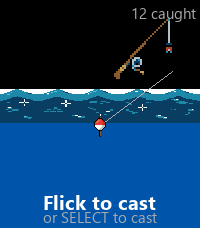
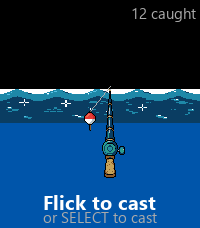
Switch cast scene to first-person rod view.
Replace the side-view pole with a tip-forward rod and draw the line from tip to bobber so it no longer crosses behind the reel.

diff --git a/src/c/ui.c b/src/c/ui.c
@@ -75,8 +75,19 @@ static const char *rarity_label(FishRarity r) {
   return "Common";
 }
 
+static void draw_fp_rod_fallback(GContext *ctx, GRect bounds, GPoint tip) {
+  int16_t butt_x = bounds.size.w / 2 + 8;
+  int16_t butt_y = bounds.size.h + 2;
+  graphics_context_set_stroke_color(ctx, C_YELLOW);
+  graphics_context_set_stroke_width(ctx, 3);
+  graphics_draw_line(ctx, GPoint(butt_x, butt_y), tip);
+  graphics_context_set_stroke_width(ctx, 1);
+  graphics_context_set_fill_color(ctx, C_ACCENT);
+  graphics_fill_circle(ctx, GPoint(butt_x - 5, butt_y - 16), 5);
+}
+
 static void draw_scene(GContext *ctx, GRect bounds, const Game *g) {
-  // Horizon sits higher so water fills most of the display
+  // First-person: looking past your rod tip out onto the water
   int16_t water_y = bounds.size.h * 2 / 5;
 
   graphics_context_set_fill_color(ctx, C_SKY);
@@ -85,7 +96,6 @@ static void draw_scene(GContext *ctx, GRect bounds, const Game *g) {
   if (s_bmp_water) {
     GRect wb = gbitmap_get_bounds(s_bmp_water);
     int16_t wy = water_y - 2;
-    // Tile water 1:1 across width (no upscale — avoids 2x2 sprite repeats)
     for (int16_t x = 0; x < bounds.size.w; x += wb.size.w) {
       draw_bitmap_native(ctx, s_bmp_water, GPoint(x, wy));
     }
@@ -100,32 +110,50 @@ static void draw_scene(GContext *ctx, GRect bounds, const Game *g) {
     graphics_draw_line(ctx, GPoint(0, water_y), GPoint(bounds.size.w, water_y));
   }
 
-  if (s_bmp_rod) {
-    GRect rb = gbitmap_get_bounds(s_bmp_rod);
-    draw_bitmap_native(ctx, s_bmp_rod,
-                       GPoint(bounds.size.w - rb.size.w - 4, water_y - rb.size.h + 8));
+  if (!(g->state == GameState_Waiting || g->state == GameState_Bite ||
+        g->state == GameState_Ready)) {
+    return;
   }
 
-  int16_t bobber_x = bounds.size.w / 2;
-  int16_t bobber_y = water_y + bounds.size.h / 10;
+  // Bobber ahead on the water
+  int16_t bobber_x = bounds.size.w / 2 - 10;
+  int16_t bobber_y = water_y + 12;
   if (g->state == GameState_Waiting) {
     bobber_y += (int16_t)((g->state_ms / 200) % 2) * 3;
   } else if (g->state == GameState_Bite) {
-    bobber_y += 10 + (int16_t)((g->state_ms / 80) % 3) * 2;
+    bobber_y += 8 + (int16_t)((g->state_ms / 80) % 3) * 2;
   }
 
-  if (g->state == GameState_Waiting || g->state == GameState_Bite ||
-      g->state == GameState_Ready) {
-    graphics_context_set_stroke_color(ctx, C_DIM);
-    graphics_context_set_stroke_width(ctx, 1);
-    graphics_draw_line(ctx, GPoint(bounds.size.w - 28, water_y - 20),
-                       GPoint(bobber_x, bobber_y));
-    if (s_bmp_bobber) {
-      draw_bitmap_centered_native(ctx, s_bmp_bobber, GPoint(bobber_x, bobber_y + 8));
-    } else {
-      graphics_context_set_fill_color(ctx, C_RED);
-      graphics_fill_circle(ctx, GPoint(bobber_x, bobber_y + 8), 6);
-    }
+  // Place rod from bottom of screen; tip = top-center of sprite
+  GPoint tip;
+  int16_t rod_x = 0;
+  int16_t rod_y = 0;
+  if (s_bmp_rod) {
+    GRect rb = gbitmap_get_bounds(s_bmp_rod);
+    rod_x = (bounds.size.w - rb.size.w) / 2 + 10;
+    // Tip near the horizon; handle hangs toward the bottom of the display
+    rod_y = water_y - 8;
+    tip = GPoint(rod_x + rb.size.w / 2, rod_y + 3);
+  } else {
+    tip = GPoint(bounds.size.w / 2 + 14, water_y - 4);
+  }
+
+  // Line from tip to bobber, then bobber, then rod on top so tip covers the join
+  graphics_context_set_stroke_color(ctx, C_DIM);
+  graphics_context_set_stroke_width(ctx, 1);
+  graphics_draw_line(ctx, tip, GPoint(bobber_x, bobber_y));
+
+  if (s_bmp_bobber) {
+    draw_bitmap_centered_native(ctx, s_bmp_bobber, GPoint(bobber_x, bobber_y + 8));
+  } else {
+    graphics_context_set_fill_color(ctx, C_RED);
+    graphics_fill_circle(ctx, GPoint(bobber_x, bobber_y + 8), 6);
+  }
+
+  if (s_bmp_rod) {
+    draw_bitmap_native(ctx, s_bmp_rod, GPoint(rod_x, rod_y));
+  } else {
+    draw_fp_rod_fallback(ctx, bounds, tip);
   }
 }
 

diff --git a/tools/generate_store_screenshots.py b/tools/generate_store_screenshots.py
@@ -151,18 +151,22 @@ def render_ready(w: int, h: int, color: bool) -> Image.Image:
     else:
         draw.rectangle((0, water_y, w, h), fill=water)
 
-    rod = load_sprite(RES / "rod.png", color)
-    if rod is not None:
-        rw, rh = rod.width * 2, rod.height * 2
-        paste_scaled(img, rod, (w - rw - 4, water_y - rh + 8, rw, rh))
-
     bobber = load_sprite(RES / "bobber.png", color)
-    bx, by = w // 2, water_y + h // 10 + 12
-    draw.line((w - 28, water_y - 20, bx, by), fill=dim, width=1)
+    bx, by = w // 2 - 10, water_y + 20
+    rod = load_sprite(RES / "rod.png", color)
+    tip = (w // 2 + 14, water_y - 4)
+    rod_xy = None
+    if rod is not None:
+        rod_xy = ((w - rod.width) // 2 + 10, water_y - 8)
+        tip = (rod_xy[0] + rod.width // 2, rod_xy[1] + 3)
+
+    draw.line((tip[0], tip[1], bx, by), fill=dim, width=1)
     if bobber is not None:
-        paste_centered_scaled(img, bobber, bx, by, 48, 48)
+        paste_centered_scaled(img, bobber, bx, by + 8, bobber.width, bobber.height)
     else:
         draw.ellipse((bx - 6, by - 6, bx + 6, by + 6), fill=RED if color else WHITE)
+    if rod is not None and rod_xy is not None:
+        img.paste(rod, rod_xy, rod)
 
     text_right(draw, "12 caught", 2, w, f14, dim)
     text_center(draw, "Flick to cast", h - 40, w, f18, WHITE)
